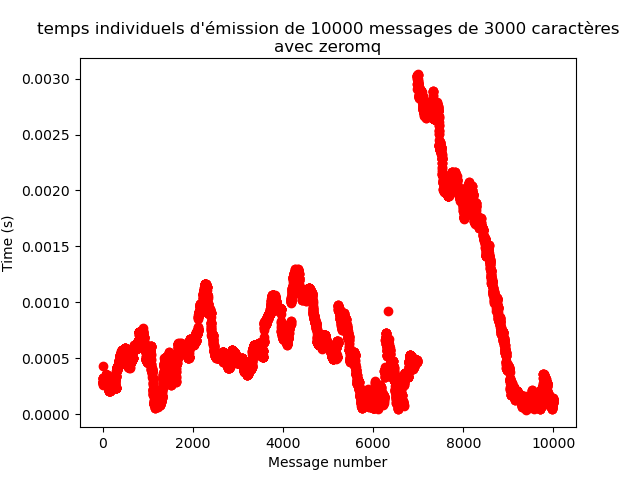
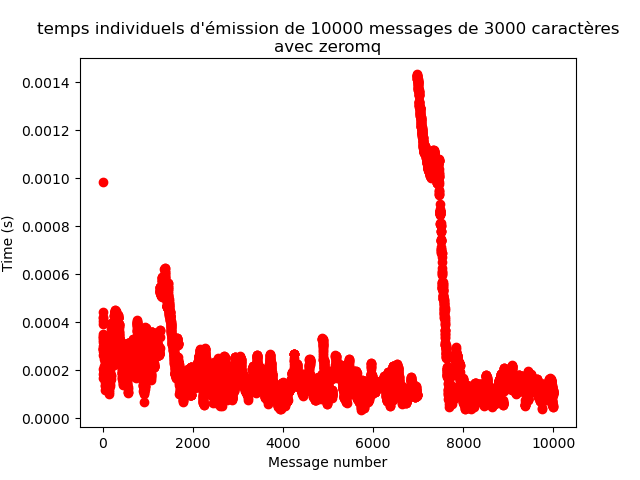
parametre sleep

diff --git a/main.py b/main.py
@@ -29,6 +29,8 @@ def main():
     parser.add_argument('--port', help='Port ou addresse (seulement pour ivy)')
     parser.add_argument('--length',default='3000', help='longueur du message à envoyer (3000 carac par défaut)')
     parser.add_argument('--log_level', default='INFO', help='Niveau de configuration de la journalisation')
+    parser.add_argument('--sleep',default='0',type = float, help="Temps du sleep à mettre entre l'envoi de chaque message")
+
     param = parser.parse_args()
 
     # Configurer la journalisation
@@ -58,7 +60,7 @@ def main():
     logger.info('Démarrage du programme')
 
     receive_process = multiprocessing.Process(target=main_receive, args=(param.protocol, param.message_count, param.port,param.length, queue, logger))
-    send_process = multiprocessing.Process(target=main_send, args=(param.protocol, param.message_count, param.port, param.length, queue, logger))
+    send_process = multiprocessing.Process(target=main_send, args=(param.protocol, param.message_count, param.port, param.length, queue, logger, param.sleep))
     receive_process.start()
     #sleep(2)
     send_process.start()

diff --git a/main_send.py b/main_send.py
@@ -15,7 +15,7 @@ from time import sleep
 
 
 
-def main_send(protocol, message_count, port,length, queue, logger):
+def main_send(protocol, message_count, port,length, queue, logger, traitement):
 
 
 
@@ -63,6 +63,7 @@ def main_send(protocol, message_count, port,length, queue, logger):
             message = str(message_rand) + str(start_time)
             #message = "hello =" + str(start_time)
             protocol_obj.send_message(message)
+            sleep(traitement)
         #message = "last message =" + str(start_time)
         #protocol_obj.send_message(message, "10002")
 
